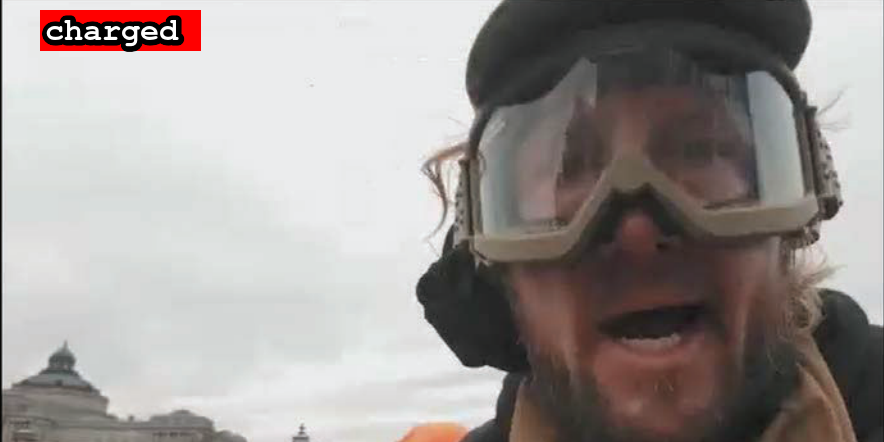
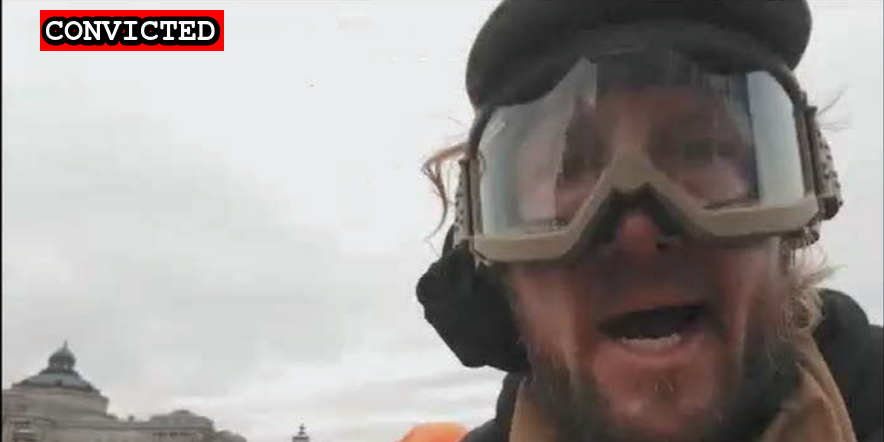
Hiles conviction

Changed region(s): [[0.0305, 0.0, 0.2749, 0.1176]]

diff --git a/docs/_suspects/jacob-hiles.md b/docs/_suspects/jacob-hiles.md
@@ -3,13 +3,13 @@ name: Jacob Hiles
 lastName: Hiles
 aka:
 residence: Virginia
-status: Charged
+status: Convicted
 date: 2021-01-19
 charged: 2021-01-19
 indicted:
-convicted: 
-sentenced: 
-dismissed: 
+convicted: 2021-09-09
+sentenced:
+dismissed:
 deceased:
 age:
 occupation: Fishing charter captain
@@ -29,6 +29,11 @@ author: seditiontrack
 layout: suspect
 published: true
 caseNumber: 1:21-cr-155
+charges:
+- code: 18 USC § 5104(e)(2)(G)
+  title: Parading, Demonstrating or Picketing in a Capitol Building
+  url: https://www.law.cornell.edu/uscode/text/40/5104
+  felony: false
 ---
 - [News Report](https://www.wtvr.com/news/local-news/jacob-giles-turns-himself-in-to-fbi-for-alleged-role-in-capitol-attack)
 - [Statement of Facts](https://www.justice.gov/opa/page/file/1356971/download)
